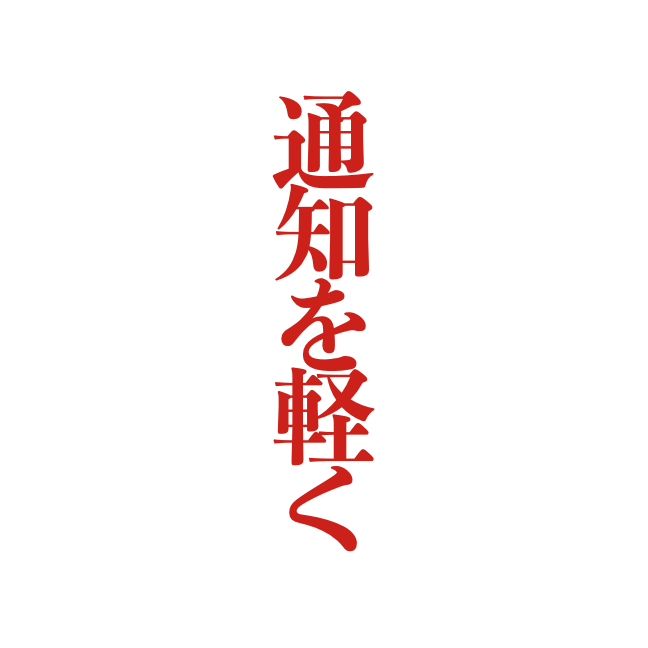
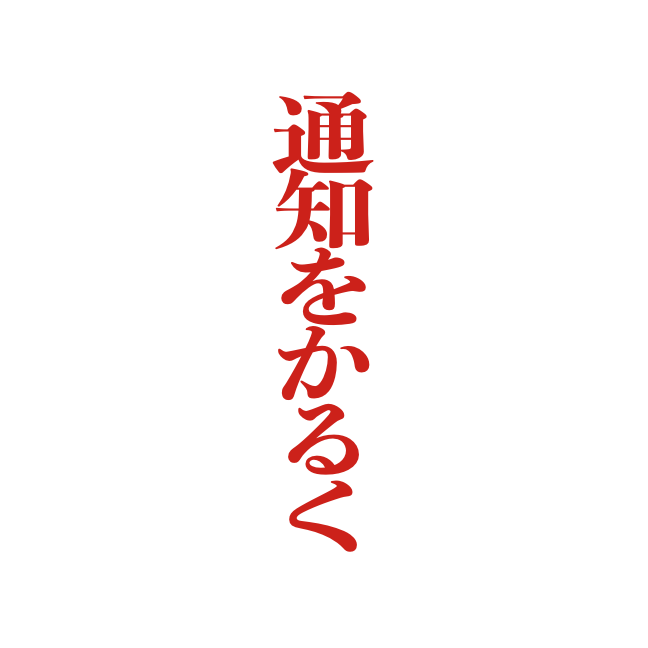
rename Ume to Umete

Changed region(s): [[0.4012, 0.1543, 0.5864, 0.8333]]

diff --git a/karui-hanko.html b/karui-hanko.html
@@ -2,13 +2,13 @@
 <html lang="en">
 <head>
   <meta charset="utf-8">
-  <title>Karui: 通知を軽く</title>
+  <title>Karui: 通知をかるく</title>
   <link href="sasu-common.css?v=5" rel="stylesheet">
   <link rel="icon" href="assets/karui-favicon.png?v=1" type="image/png">
   <link rel="apple-touch-icon" href="assets/karui-icon.png?v=2">
   <meta name="viewport" content="width=device-width, initial-scale=1">
   <link rel="canonical" href="https://karui.jp/hanko">
-  <meta name="description" content="The 通知を軽く seal on Karui’s home page: “lighten your notifications,” in the style of a Japanese hanko." data-label-en="The 通知を軽く seal on Karui’s home page: “lighten your notifications,” in the style of a Japanese hanko." data-label-ja="Karuiのホームページにある「通知を軽く」の判子。">
+  <meta name="description" content="The 通知をかるく seal on Karui’s home page: “lighten your notifications,” in the style of a Japanese hanko." data-label-en="The 通知をかるく seal on Karui’s home page: “lighten your notifications,” in the style of a Japanese hanko." data-label-ja="Karuiのホームページにある「通知をかるく」の判子。">
   <style>
     body.sasu-site { background: #fff; }
     /* The seal on its own page, centered like the #seal view on the home page. A
@@ -27,11 +27,11 @@
   <main class="sasu-page">
     <div class="language-switcher"><button class="language-switch" type="button" aria-label="日本語に切り替える">日本語</button></div>
     <section class="karui-hanko">
-      <img src="assets/karui-seal-tagline-large.png?v=2" alt="Seal reading 通知を軽く (Lighten your notifications)" data-alt-en="Seal reading 通知を軽く (Lighten your notifications)" data-alt-ja="「通知を軽く」と入った判子" width="66" height="283">
+      <img src="assets/karui-seal-tagline-large.png?v=3" alt="Seal reading 通知をかるく (Lighten your notifications)" data-alt-en="Seal reading 通知をかるく (Lighten your notifications)" data-alt-ja="「通知をかるく」と入った判子" width="66" height="283">
       <script src="karui-seal-ink.js?v=1"></script>
       <script>karuiInkIn(document.currentScript.previousElementSibling.previousElementSibling, 100);</script>
-      <div class="karui-hanko-title" data-label-en="Lighten your notifications" data-label-ja="通知を軽く">Lighten your notifications</div>
-      <p class="karui-hanko-note" data-label-en="Karui is Japanese for “light,” as in not heavy. This seal reads 通知を軽く, or “lighten your notifications.” It’s meant to resemble a hanko, the seal people in Japan use to sign important documents." data-label-ja="Karuiという名前は「軽い」から来ています。">Karui is Japanese for “light,” as in not heavy. This seal reads 通知を軽く, or “lighten your notifications.” It’s meant to resemble a hanko, the seal people in Japan use to sign important documents.</p>
+      <div class="karui-hanko-title" data-label-en="Lighten your notifications" data-label-ja="通知をかるく">Lighten your notifications</div>
+      <p class="karui-hanko-note" data-label-en="Karui is Japanese for “light,” as in not heavy. This seal reads 通知をかるく, or “lighten your notifications.” It’s meant to resemble a hanko, the seal people in Japan use to sign important documents." data-label-ja="Karuiという名前は「軽い」から来ています。">Karui is Japanese for “light,” as in not heavy. This seal reads 通知をかるく, or “lighten your notifications.” It’s meant to resemble a hanko, the seal people in Japan use to sign important documents.</p>
       <a class="karui-hanko-close" href="karui.html" data-label-en="Close" data-label-ja="閉じる">Close</a>
     </section>
   </main>

diff --git a/ume.html b/ume.html
@@ -264,7 +264,6 @@
       </div>
       <div class="sasu-tagline" data-label-en="An intelligent Safari form filler for iPhone, iPad, and Mac." data-label-ja="iPhone、iPad、Macで使える、賢いSafariフォーム入力支援。">An intelligent Safari form filler for iPhone, iPad, and Mac.</div>
       <a class="download-link" data-ume-download data-product="ume" data-product-action="download-macos" href="https://github.com/littlebobert/ume/releases/download/v0.2.0/Ume-0.2.0-macOS.dmg" data-label-en="Download for macOS" data-label-ja="macOS版をダウンロード">Download for macOS</a>
-      <span class="download-version" data-ume-version data-label-en="(version 0.1.15)" data-label-ja="（バージョン 0.1.15）">0.2.0</span>
       <div class="small-note" data-label-en="Free and no in-app purchases." data-label-ja="無料で、アプリ内課金はありません。">Free and no in-app purchases.</div>
     </section>
 
@@ -359,7 +358,7 @@
     <section class="ume-detail">
       <h2 data-label-en="Privacy:" data-label-ja="プライバシー：">Privacy:</h2>
       <p data-label-en="Umete reads eligible form controls only when you ask it to remember or fill a form. If you turn on the optional toolbar badge, Umete also checks each page you open for forms, on your device only, reading field labels but never values. Saved answers are encrypted with AES-GCM, and the device-only key is kept in Apple Keychain. Umete collects no analytics and skips passwords, payment details, security codes, secrets, tokens, and Social Security numbers. Umete just sends field descriptions and metadata to your AI provider, not your saved answers or the values currently entered in the form." data-label-ja="Umeteは、フォームの保存または入力を指示したときだけ対象項目を読み取ります。オプションのツールバーバッジをオンにした場合は、開いたページにフォームがあるかを端末内だけで確認し、項目のラベルは読み取りますが入力値は読み取りません。保存した回答はAES-GCMで暗号化され、端末専用キーはApple Keychainに保管されます。分析データは収集せず、パスワード、支払い情報、セキュリティコード、秘密情報、トークン、社会保障番号は対象外です。AIプロバイダーへ送信するのは項目の説明とメタデータだけで、保存した回答やフォームに入力済みの値は送信しません。">Umete reads eligible form controls only when you ask it to remember or fill a form. If you turn on the optional toolbar badge, Umete also checks each page you open for forms, on your device only, reading field labels but never values. Saved answers are encrypted with AES-GCM, and the device-only key is kept in Apple Keychain. Umete collects no analytics and skips passwords, payment details, security codes, secrets, tokens, and Social Security numbers. Umete just sends field descriptions and metadata to your AI provider, not your saved answers or the values currently entered in the form.</p>
-      <p class="privacy-source"><a href="https://github.com/littlebobert/ume" data-label-en="View the source code on GitHub." data-label-ja="ソースコードをGitHubで見る。">View the source code on GitHub.</a></p>
+      <p class="privacy-source"><a href="https://github.com/littlebobert/umete" data-label-en="View the source code on GitHub." data-label-ja="ソースコードをGitHubで見る。">View the source code on GitHub.</a></p>
     </section>
 
     <section class="ume-detail">

diff --git a/karui-qr.html b/karui-qr.html
@@ -25,7 +25,7 @@
        page show through while the seals animated. */
     .sasu-page { min-height: 100svh; box-sizing: border-box; display: flex; flex-direction: column; }
     .karui-qr { flex: 1; display: flex; flex-direction: column; align-items: center; justify-content: center; gap: 14pt; padding-bottom: 6vh; text-align: center; }
-    /* Swipe sideways between the codes: the 通知を軽く seal, the ガルシア seal, then
+    /* Swipe sideways between the codes: the 通知をかるく seal, the ガルシア seal, then
        the app icon one. */
     .karui-qr-slides { display: flex; width: min(80vw, 70vh, 360px); overflow-x: auto; scroll-snap-type: x mandatory; scrollbar-width: none; }
     .karui-qr-slides::-webkit-scrollbar { display: none; }
@@ -48,7 +48,7 @@
     <section class="karui-qr" id="qr" aria-label="QR code for karui.jp">
       <div class="karui-qr-slides">
         <div class="karui-qr-morph">
-          <img class="karui-qr-morph-name" src="assets/karui-qr-seal-tagline-name.png?v=1" alt="" width="648" height="648">
+          <img class="karui-qr-morph-name" src="assets/karui-qr-seal-tagline-name.png?v=2" alt="" width="648" height="648">
           <svg class="karui-qr-morph-dots" aria-hidden="true"></svg>
           <img class="karui-qr-morph-final" src="assets/karui-qr-seal.png?v=3" alt="QR code that opens https://karui.jp/, in seal red" width="648" height="648">
         </div>
@@ -105,7 +105,7 @@
     setLanguage(localStorage.getItem('karui-language') || preferredLanguage(), false);
   </script>
   <script>
-    // The seals: 通知を軽く first, then ガルシア a swipe away. Each is inked onto
+    // The seals: 通知をかるく first, then ガルシア a swipe away. Each is inked onto
     // the page in a narrow frame like the footer seal, then its lettering dissolves
     // into dots that curve into their places in the QR code while the frame widens
     // into a square, and the real code image takes over, so what people scan is the

diff --git a/scripts/generate-karui-seal.swift b/scripts/generate-karui-seal.swift
@@ -112,10 +112,10 @@ renderSeal(nameColumns, pointWidth: 24, pointHeight: 51, scale: 4, borderPoints:
 // 4× the footer size in points, at 3× for sharp phone screens.
 // Shown four times as big, where a full-size radius looked too round.
 renderSeal(nameColumns, pointWidth: 96, pointHeight: 204, scale: 3, borderPoints: 1.6 * 4, radiusPoints: 3.5 * 4, to: "assets/karui-seal-large.png")
-// 通知を軽く, the App Store name's tagline, stamped beside the hero the first time the
-// page loads. Five dense kanji need more room between them than ガルシア's kana.
-// Just wide enough that the lettering keeps its own proportions: any wider and it is
-// stretched to fill the column, which makes kanji look squat.
-renderSeal(["通知を軽く"], pointWidth: 26, pointHeight: 112, scale: 3, borderPoints: 2, radiusPoints: 4, spacing: 0.16, to: "assets/karui-seal-tagline.png")
+// 通知をかるく, the App Store name's tagline, stamped beside the hero the first time the
+// page loads. Six characters, three of them dense kanji, need more room between them
+// than ガルシア's kana. Just wide enough that the lettering keeps its own proportions:
+// any wider and it is stretched to fill the column, which makes kanji look squat.
+renderSeal(["通知をかるく"], pointWidth: 26, pointHeight: 112, scale: 3, borderPoints: 2, radiusPoints: 4, spacing: 0.16, to: "assets/karui-seal-tagline.png")
 // The same seal two and a half times as tall, for the #tagline view.
-renderSeal(["通知を軽く"], pointWidth: 66, pointHeight: 283, scale: 3, borderPoints: 5, radiusPoints: 10, spacing: 0.16, to: "assets/karui-seal-tagline-large.png")
+renderSeal(["通知をかるく"], pointWidth: 66, pointHeight: 283, scale: 3, borderPoints: 5, radiusPoints: 10, spacing: 0.16, to: "assets/karui-seal-tagline-large.png")

diff --git a/scripts/generate-karui-seal-qr.swift b/scripts/generate-karui-seal-qr.swift
@@ -1,5 +1,5 @@
 // Generates the animated seals at karui.jp/#qr, where a seal's lettering, in a
-// narrow frame, turns into a QR code for karui.jp. There are two: 通知を軽く, the
+// narrow frame, turns into a QR code for karui.jp. There are two: 通知をかるく, the
 // App Store name's tagline, and ガルシア, like the footer seal.
 //   assets/karui-qr-seal.png       the plain red QR code in a square frame, where
 //                                  both end
@@ -274,8 +274,8 @@ func seal(text: String, widthRatio: CGFloat, name: String, json: String, sampleS
     print("Wrote \(json) (\(dots.count) dots, \(extras.count) extras)")
 }
 
-// 通知を軽く, the App Store name's tagline, first. Its kanji are small and dense, so
-// they're sampled finely with small dots to stay legible.
-seal(text: "通知を軽く", widthRatio: 0.3, name: "assets/karui-qr-seal-tagline-name.png", json: "assets/karui-qr-seal-tagline.json", sampleStep: 2, extraSpacing: 0.19, startScale: 0.3)
+// 通知をかるく, the App Store name's tagline, first. Its six characters are small, and the
+// kanji dense, so they're sampled finely with small dots to stay legible.
+seal(text: "通知をかるく", widthRatio: 0.3, name: "assets/karui-qr-seal-tagline-name.png", json: "assets/karui-qr-seal-tagline.json", sampleStep: 2, extraSpacing: 0.19, startScale: 0.3)
 // ガルシア, in the footer seal's 24 × 51-point shape.
 seal(text: "ガルシア", widthRatio: 24 / 51, name: "assets/karui-qr-seal-name.png", json: "assets/karui-qr-seal.json", sampleStep: 3, extraSpacing: 0.22, startScale: 0.4)

diff --git a/karui.html b/karui.html
@@ -47,7 +47,7 @@
     .sasu-hero .sasu-subtitle { font-size: 11pt; line-height: 1.3; }
     /* The second line of the pitch, below the icon and name, in plain body text. */
     .hero-proposition { margin: 8pt 0 0; }
-    /* The 通知を軽く seal floats at the top right, under the language switcher, so the
+    /* The 通知をかるく seal floats at the top right, under the language switcher, so the
        tagline in either language wraps before it rather than running under it. The
        first time the page loads it grows in from a thin line to its full width; after
        that it's just there. Tapping it opens it large at /hanko. */
@@ -169,7 +169,7 @@
     </div>
 
     <section class="sasu-hero">
-      <a href="karui-hanko.html" class="karui-hero-seal" aria-label="About the 通知を軽く seal" data-aria-label-en="About the 通知を軽く seal" data-aria-label-ja="「通知を軽く」の判子について"><img src="assets/karui-seal-tagline.png?v=4" alt="" width="26" height="112"></a>
+      <a href="karui-hanko.html" class="karui-hero-seal" aria-label="About the 通知をかるく seal" data-aria-label-en="About the 通知をかるく seal" data-aria-label-ja="「通知をかるく」の判子について"><img src="assets/karui-seal-tagline.png?v=5" alt="" width="26" height="112"></a>
       <script src="karui-seal-ink.js?v=1"></script>
       <script>
         // The seal inks in the first time the page loads (add ?stamp to the address to
